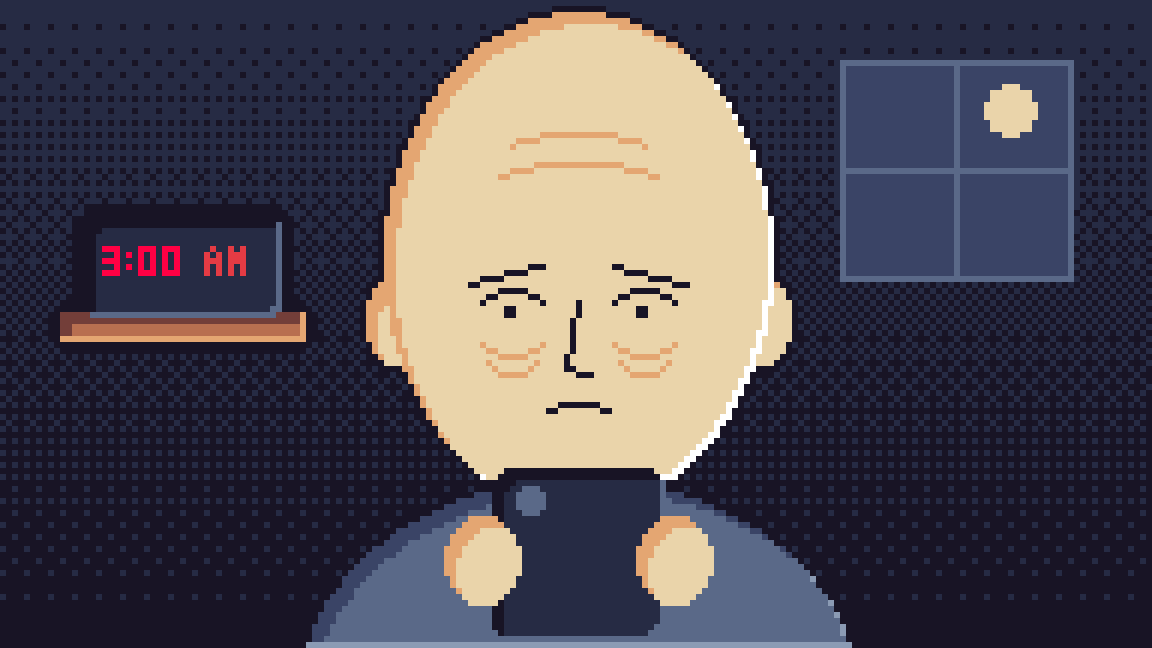
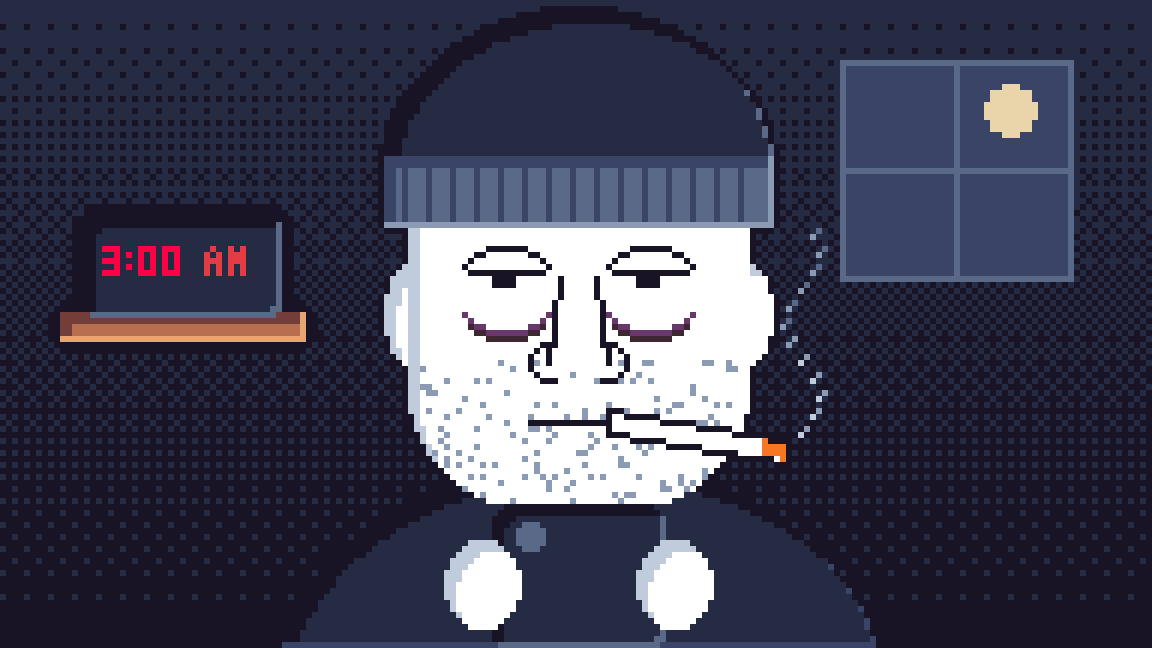
Pixel art: Placebo's spoon in dark steel against the sugar, its handle running out of the picture; Keyboard Warrior with a redditor's face (bald dome, glasses, neckbeard, smug grin), arms in the belly's tone, rounded at the shoulders; Doomscrolling's guy the doomer Wojak (beanie, eye bags, stubble, 

diff --git a/Tools/pixel_art.py b/Tools/pixel_art.py
@@ -938,29 +938,48 @@ def doomscrolling():
     pixel_text(clock, 34, 41, "AM", C["red"])
     img.alpha_composite(outline(clock))
     d = ImageDraw.Draw(img)
-    # Bojak: the bald wojak, a huge dome of a head with the face small at the bottom of it, lit blue by the phone
-    shape(img, lambda dr, v: dr.ellipse([50, 80, 142, 150], fill=v), C["slate"], C["navy"], C["grey"])  # Hunched, in a grey tee
-    for ex in (65, 127):  # Ears, low on the head
-        shape(img, lambda dr, v: dr.ellipse([ex - 4, 46, ex + 4, 60], fill=v), C["sand"], C["tan"])
-    shape(img, lambda dr, v: dr.ellipse([64, 2, 128, 84], fill=v), C["sand"], C["tan"], C["white"])
-    for y, (x0, x1) in ((22, (84, 108)), (27, (82, 110))):  # Forehead creases
-        d.arc([x0, y, x1, y + 6], 200, 340, fill=C["tan"] + (255,))
-    d.line([(78, 47), (90, 44)], fill=C["ink"] + (255,))  # Brows, sad
-    d.line([(102, 44), (114, 47)], fill=C["ink"] + (255,))
-    for ex in (85, 107):
-        d.arc([ex - 6, 48, ex + 6, 56], 200, 340, fill=C["ink"] + (255,))  # Heavy lids
-        d.rectangle([ex - 1, 51, ex, 52], fill=C["ink"] + (255,))
-        d.arc([ex - 6, 51, ex + 6, 59], 20, 160, fill=C["tan"] + (255,))  # Bags under them
-        d.arc([ex - 5, 54, ex + 5, 62], 30, 150, fill=C["tan"] + (255,))
-    d.line([(96, 50), (94, 61), (98, 62)], fill=C["ink"] + (255,))  # The nose
-    d.arc([90, 67, 102, 73], 200, 340, fill=C["ink"] + (255,))  # A small frown
-    d.arc([88, 73, 104, 81], 30, 150, fill=C["tan"] + (255,))  # The chin
+    # The doomer Wojak: black beanie, black hoodie, pale face, purple bags under tired eyes, stubble, a cigarette
+    shape(img, lambda dr, v: dr.ellipse([46, 78, 146, 150], fill=v), C["night"], C["ink"], C["navy"])  # The hoodie
+    d.line([(84, 84), (82, 100)], fill=C["grey"] + (255,))  # Its drawstrings
+    d.line([(108, 84), (110, 100)], fill=C["grey"] + (255,))
+    shape(img, lambda dr, v: dr.polygon([(80, 76), (112, 76), (106, 88), (86, 88)], fill=v), C["slate"], C["navy"])  # The tee under it
+    for ex in (68, 124):  # Ears
+        shape(img, lambda dr, v: dr.ellipse([ex - 4, 44, ex + 4, 60], fill=v), C["white"], C["silver"])
+    face = shape(img, lambda dr, v: dr.rounded_rectangle([68, 18, 124, 84], 20, fill=v), C["white"], C["silver"])
+    shape(img, lambda dr, v: dr.chord([64, 2, 128, 54], 180, 360, fill=v), C["night"], C["ink"], C["slate"])  # The beanie
+    shape(img, lambda dr, v: dr.rectangle([64, 26, 128, 37], fill=v), C["slate"], C["navy"], C["grey"])
+    for x in range(67, 127, 4):
+        d.line([x, 27, x, 36], fill=C["navy"] + (255,))
+    rnd = random.Random(67)
+    fm = face.load()
+    for _ in range(170):  # Stubble on the jaw and the lip
+        x, y = rnd.randint(70, 122), rnd.randint(60, 83)
+        if fm[x, y] and not (86 <= x <= 106 and 64 <= y <= 66):
+            dot(img, x, y, C["grey"])
+    for ex in (84, 108):
+        d.arc([ex - 8, 41, ex + 8, 53], 200, 340, fill=C["ink"] + (255,))  # Heavy, half-shut lids
+        d.line([ex - 6, 45, ex + 6, 45], fill=C["ink"] + (255,))
+        d.rectangle([ex - 2, 46, ex + 1, 47], fill=C["ink"] + (255,))
+        d.arc([ex - 8, 45, ex + 8, 55], 20, 160, fill=C["purple"] + (255,))  # The bags
+        d.arc([ex - 7, 47, ex + 7, 56], 30, 150, fill=C["plum"] + (255,))
+    d.line([(93, 46), (91, 60)], fill=C["ink"] + (255,))  # The long Wojak nose
+    d.line([(99, 46), (101, 60)], fill=C["ink"] + (255,))
+    d.arc([88, 57, 96, 63], 90, 270, fill=C["ink"] + (255,))
+    d.arc([96, 57, 104, 63], 270, 90, fill=C["ink"] + (255,))
+    d.line([88, 70, 104, 70], fill=C["ink"] + (255,))  # A flat mouth
     # The phone, its black back to us, held in both hands
-    shape(img, lambda dr, v: dr.rounded_rectangle([82, 78, 110, 106], 3, fill=v), C["night"], C["ink"], C["slate"])
-    d.ellipse([86, 81, 90, 85], fill=C["slate"] + (255,))
+    shape(img, lambda dr, v: dr.rounded_rectangle([82, 84, 110, 108], 3, fill=v), C["night"], C["ink"], C["slate"])
+    d.ellipse([86, 87, 90, 91], fill=C["slate"] + (255,))
     for hx in (80, 112):
-        shape(img, lambda dr, v: dr.ellipse([hx - 6, 86, hx + 6, 100], fill=v), C["sand"], C["tan"])
-    return outline(img)
+        shape(img, lambda dr, v: dr.ellipse([hx - 6, 90, hx + 6, 104], fill=v), C["white"], C["silver"])
+    img = outline(img)
+    d = ImageDraw.Draw(img)
+    d.polygon([(101, 68), (131, 73), (131, 77), (101, 72)], fill=C["white"] + (255,), outline=C["ink"] + (255,))  # The cigarette
+    d.polygon([(127, 73), (130, 74), (130, 76), (127, 75)], fill=C["orange"] + (255,))
+    for k in range(12):
+        dot(img, 133 + round(math.sin(k * 0.8) * 3), 72 - k * 3, C["silver"] if k < 5 else C["grey"])
+        dot(img, 134 + round(math.sin(k * 0.8) * 3), 71 - k * 3, C["grey"] if k < 6 else C["slate"])
+    return img
 
 
 def sherman_tank():
@@ -1335,13 +1354,13 @@ def man(img, x, y, scale, skin, shirt, hair=None, face="neutral", tie=None, jack
 def placebo():
     img = layer()
     d = ImageDraw.Draw(img)
-    # A spoonful of sugar and nothing else: the handle rising off to the top right, the bowl's tip to the left, heaped high
-    shape(img, lambda dr, v: dr.polygon([(128, 66), (180, 4), (188, 2), (190, 8), (138, 72)], fill=v), C["silver"], C["grey"], C["white"])
-    d.line([(134, 64), (184, 5)], fill=C["white"] + (255,))
+    # A spoonful of sugar and nothing else: dark steel against the white sugar, the handle running off past the top right
+    shape(img, lambda dr, v: dr.polygon([(128, 66), (196, -12), (204, -4), (138, 72)], fill=v), C["grey"], C["slate"], C["silver"])
+    d.line([(134, 64), (198, -8)], fill=C["silver"] + (255,))
     cx, cy, rx, ry = 84, 74, 58, 18
     bowl = [(cx + rx * math.cos(a), cy + ry * math.sin(a) * (0.7 + 0.3 * math.cos(a))) for a in (k * math.pi / 40 for k in range(80))]
-    shape(img, lambda dr, v: dr.polygon(bowl, fill=v), C["silver"], C["grey"], C["white"])
-    d.line([(x, y - 1) for x, y in bowl[6:36]], fill=C["white"] + (255,))  # The light along its lip
+    shape(img, lambda dr, v: dr.polygon(bowl, fill=v), C["grey"], C["slate"], C["silver"])
+    d.line([(x, y - 1) for x, y in bowl[6:36]], fill=C["silver"] + (255,))  # The light along its lip
     rnd = random.Random(43)
     top, bottom = [], []
     for x in range(cx - rx + 6, cx + rx - 3):
@@ -1350,6 +1369,7 @@ def placebo():
         top.append((x, cy - 4 - 30 * h ** 1.4 * (1 - 0.1 * f) + rnd.choice((-1, 0, 0, 1))))
         bottom.append((x, cy + 8 * h))
     sugar = shape(img, lambda dr, v: dr.polygon(top + bottom[::-1], fill=v), C["white"], C["silver"])
+    d.line(bottom, fill=C["slate"] + (255,))  # Where the sugar meets the steel
     sm = sugar.load()
     for _ in range(320):  # Grains, thicker on the shaded side
         x, y = rnd.randint(30, 140), rnd.randint(36, 84)
@@ -1416,7 +1436,7 @@ def golden_dome():
             d.ellipse([ex - r, ey - r, ex + r, ey + r], fill=col + (255,))
     d.line([10, 4, 18, 14], fill=C["silver"] + (255,), width=2)  # One more on its way
     d.polygon([(17, 14), (20, 13), (21, 18)], fill=C["red"] + (255,))
-    # Netanyahu in front of it, pleased with himself: silver hair swept back, dark suit, red tie, the flag pin
+    # Netanyahu in front of it, pleased with himself: silver hair swept back, dark suit, red tie
     shape(img, lambda dr, v: dr.polygon([(122, H), (126, 80), (138, 70), (174, 70), (186, 80), (190, H)], fill=v), C["night"], C["ink"], C["navy"])
     d.rectangle([150, 58, 162, 72], fill=C["skin_dark"] + (255,))  # The neck
     d.polygon([(146, 70), (166, 70), (156, 94)], fill=C["white"] + (255,))
@@ -1424,10 +1444,6 @@ def golden_dome():
     d.polygon([(154, 76), (158, 76), (160, 90), (156, 94), (152, 90)], fill=C["red"] + (255,))
     d.line([(146, 70), (156, 94)], fill=C["navy"] + (255,))
     d.line([(166, 70), (156, 94)], fill=C["navy"] + (255,))
-    d.rectangle([169, 80, 174, 84], fill=C["white"] + (255,))
-    d.line([169, 80, 174, 80], fill=C["blue"] + (255,))
-    d.line([169, 84, 174, 84], fill=C["blue"] + (255,))
-    dot(img, 171, 82, C["blue"])
     for ex in (138, 174):  # Ears
         shape(img, lambda dr, v: dr.ellipse([ex - 4, 32, ex + 4, 48], fill=v), C["skin"], C["skin_dark"])
     shape(img, lambda dr, v: dr.ellipse([140, 14, 172, 64], fill=v), C["skin"], C["skin_dark"])
@@ -1516,14 +1532,17 @@ def inflatable_tank():
 def keyboard_warrior():
     img = layer()
     d = ImageDraw.Draw(img)
-    # Rambo gone soft: long black hair, the red headband, shirtless, a belly, a bandolier, camo trousers
-    hair = [(74, 18), (106, 18), (114, 54), (104, 46), (98, 50), (82, 50), (76, 46), (66, 54)]
+    # Rambo gone soft, with a redditor's face: balding, long hair at the back, the red headband, glasses, a neckbeard,
+    # a smug toothy grin; shirtless, a belly, a bandolier, camo trousers
+    hair = [(74, 22), (106, 22), (114, 56), (104, 48), (98, 52), (82, 52), (76, 48), (66, 56)]
     shape(img, lambda dr, v: dr.polygon(hair, fill=v), C["night"], C["ink"], C["slate"])
     shape(img, lambda dr, v: dr.rectangle([56, 98, 124, H], fill=v), C["dark_green"], C["forest"], C["green"])
     rnd = random.Random(61)
     for _ in range(10):  # Camo blotches
         x, y = rnd.randint(58, 120), rnd.randint(100, H)
         d.ellipse([x - 3, y - 2, x + 3, y + 2], fill=rnd.choice((C["forest"], C["brown"])) + (255,))
+    for x0 in (50, 110):  # Fat upper arms, hanging at his sides
+        shape(img, lambda dr, v: dr.ellipse([x0, 46, x0 + 20, 80], fill=v), C["skin"], C["skin_dark"])
     shape(img, lambda dr, v: dr.ellipse([56, 40, 124, 82], fill=v), C["skin"], C["skin_dark"])  # Chest
     shape(img, lambda dr, v: dr.ellipse([54, 56, 126, 110], fill=v), C["skin"], C["skin_dark"])  # The belly
     for x0 in (66, 92):
@@ -1534,28 +1553,40 @@ def keyboard_warrior():
         x, y = 66 + k * 5.3, 48 + k * 6
         d.rectangle([x - 1, y - 2, x + 1, y + 1], fill=C["amber"] + (255,))
         dot(img, x, y - 3, C["silver"])
-    # The head: double chin, scowl, gritted teeth, sweating
-    shape(img, lambda dr, v: dr.ellipse([76, 14, 104, 48], fill=v), C["skin"], C["skin_dark"], C["white"])
-    d.arc([80, 38, 100, 50], 20, 160, fill=C["skin_dark"] + (255,))
-    d.chord([74, 10, 106, 30], 180, 360, fill=C["night"] + (255,))
-    shape(img, lambda dr, v: dr.rectangle([75, 21, 105, 25], fill=v), C["red"], C["wine"])  # The headband, its tails flying
-    shape(img, lambda dr, v: dr.polygon([(76, 22), (58, 18), (56, 24), (68, 26), (76, 25)], fill=v), C["red"], C["wine"])
-    shape(img, lambda dr, v: dr.polygon([(76, 24), (60, 30), (63, 33), (76, 26)], fill=v), C["red"], C["wine"])
-    d.line([(82, 28), (88, 30)], fill=C["ink"] + (255,))
-    d.line([(92, 30), (98, 28)], fill=C["ink"] + (255,))
-    for ex in (85, 94):
-        d.rectangle([ex, 31, ex + 1, 32], fill=C["ink"] + (255,))
-    d.line([(90, 32), (89, 37), (91, 38)], fill=C["skin_dark"] + (255,))
-    d.rectangle([86, 41, 94, 43], fill=C["white"] + (255,), outline=C["ink"] + (255,))
-    for x, y in ((80, 40), (83, 44), (97, 44), (100, 40), (88, 46), (92, 46)):
-        dot(img, x, y, C["skin_dark"])
-    shape(img, lambda dr, v: dr.ellipse([101, 28, 103, 32], fill=v), C["sky"], C["blue"])
+    # The redditor head: a tall bald dome, glasses, brow creases, the neckbeard
+    head = shape(img, lambda dr, v: (dr.ellipse([76, 0, 104, 34], fill=v), dr.ellipse([74, 18, 106, 50], fill=v)), C["skin"], C["skin_dark"])
+    hm = head.load()
+    for _ in range(140):  # The neckbeard: stubble round the jaw and under the chin
+        x, y = rnd.randint(74, 106), rnd.randint(36, 50)
+        if hm[x, y] and ((x - 90) ** 2 / 100 + (y - 37) ** 2 / 16 > 1):
+            dot(img, x, y, rnd.choice((C["dark_brown"], C["ink"])))
+    shape(img, lambda dr, v: dr.rectangle([75, 14, 105, 18], fill=v), C["red"], C["wine"])  # The headband, its tails flying
+    shape(img, lambda dr, v: dr.polygon([(76, 15), (58, 11), (56, 17), (68, 19), (76, 18)], fill=v), C["red"], C["wine"])
+    shape(img, lambda dr, v: dr.polygon([(76, 17), (60, 23), (63, 26), (76, 19)], fill=v), C["red"], C["wine"])
+    d.arc([82, 20, 92, 26], 200, 340, fill=C["skin_dark"] + (255,))  # Smug creases over the brows
+    d.arc([88, 21, 98, 27], 200, 340, fill=C["skin_dark"] + (255,))
+    d.line([(80, 27), (87, 29)], fill=C["ink"] + (255,))  # Brows, down at the middle
+    d.line([(93, 29), (100, 27)], fill=C["ink"] + (255,))
+    for x0 in (79, 91):  # The glasses
+        d.rectangle([x0, 30, x0 + 9, 35], outline=C["ink"] + (255,))
+        d.line([x0 + 1, 31, x0 + 8, 31], fill=C["skin_dark"] + (255,))  # Narrowed eyes
+        d.rectangle([x0 + 4, 32, x0 + 5, 33], fill=C["ink"] + (255,))
+    d.line([88, 31, 91, 31], fill=C["ink"] + (255,))
+    d.line([(76, 31), (79, 31)], fill=C["ink"] + (255,))
+    d.line([(100, 31), (104, 31)], fill=C["ink"] + (255,))
+    d.line([(90, 35), (89, 39), (91, 39)], fill=C["skin_dark"] + (255,))
+    d.polygon([(82, 41), (98, 41), (95, 45), (85, 45)], fill=C["white"] + (255,), outline=C["ink"] + (255,))  # The grin
+    for x in (86, 89, 92, 95):
+        d.line([x, 42, x, 44], fill=C["silver"] + (255,))
+    d.line([(80, 40), (82, 41)], fill=C["ink"] + (255,))
+    d.line([(98, 41), (100, 40)], fill=C["ink"] + (255,))
     img = outline(img)
-    # Fat arms, both fists on the keyboard's end, held up and forward like a sword (their own outline, over the body)
+    # Forearms, both fists on the keyboard's end, held up and forward like a sword (their own outline, over the body)
     body, img = img, layer()
     d = ImageDraw.Draw(img)
-    shape(img, lambda dr, v: dr.line([(62, 48), (62, 64), (84, 72)], fill=v, width=10, joint="curve"), C["skin_dark"], C["brown"], C["skin"], (0, 1), 2)
-    shape(img, lambda dr, v: dr.line([(118, 48), (118, 64), (98, 70)], fill=v, width=10, joint="curve"), C["skin_dark"], C["brown"], C["skin"], (0, 1), 2)
+    for (ex, ey), (wx, wy) in (((62, 78), (84, 72)), ((118, 78), (98, 70))):  # Elbow to wrist, rounded at the elbow
+        shape(img, lambda dr, v: (dr.line([(ex, ey), (wx, wy)], fill=v, width=9), dr.ellipse([ex - 5, ey - 5, ex + 5, ey + 5], fill=v)),
+              C["skin"], C["skin_dark"])
     a = math.radians(55)
     ux, uy, nx, ny = math.cos(a), -math.sin(a), math.sin(a), math.cos(a)
     p0x, p0y, L, w = 90 - ux * 4, 72 - uy * 4, 78, 7

diff --git a/Tools/art_briefs.py b/Tools/art_briefs.py
@@ -33,9 +33,12 @@ USER_NOTES = {
     "Legacy Code": ["2026-10-14 (pixel art): a scroll with HERE BE DRAGONS in ASCII art (the user's reference: the dragon by snd).",
                     "2026-10-14: no cobweb (it read as a wifi signal) and no duct tape on the computer."],
     "Golden Dome": ["2026-10-14 (pixel art): redo it; Netanyahu as the man standing there (the user's reference photo: silver hair "
-                    "swept back, dark suit, white shirt, red tie, an Israeli flag pin, a smirk)."],
+                    "swept back, dark suit, white shirt, red tie, an Israeli flag pin, a smirk).", "2026-10-14: no flag pin."],
     "Surveillance Giraffe": ["2026-10-14 (pixel art): keep its shape; no blobs sticking out of it; no camera (the white thing) on its head."],
-    "Keyboard Warrior": ["2026-10-14 (pixel art): like Rambo but fat, holding the keyboard as if it were a sword."],
+    "Keyboard Warrior": ["2026-10-14 (pixel art): like Rambo but fat, holding the keyboard as if it were a sword.",
+                         "2026-10-14: the arms in the belly's lighter skin tone, smooth where they meet the shoulders; the "
+                         "face the typical redditor meme face (the user's references: a tall bald dome, glasses, brow "
+                         "creases, a smug toothy grin, a neckbeard), in our own colors, not the reference's."],
     "Black Knight": ["2026-10-14 (pixel art): no speech bubble; like the older picture, with King Arthur and Patsy there; the "
                      "forest has no water."],
     "Particle Accelerator": ["2026-10-14 (pixel art): after the user's photo of the LHC tunnel: the blue magnet pipe running off "
@@ -60,7 +63,8 @@ USER_NOTES = {
                 "cat's ears aligned with its head.", "2026-10-14: no round fin blob on top of the fish."],
     "Placebo": ["Put a spoon of sugar.",
                 "2026-10-14 (pixel art): only the spoon holding sugar, like the user's photo (a heaped spoonful, the handle "
-                "rising to the right); keep the pink background."],
+                "rising to the right); keep the pink background.",
+                "2026-10-14: more contrast between the spoon and the sugar; the end of the handle out of sight at this angle."],
     "Business Expense": ["A guy who looks like a CEO, in a full suit, going to jail."],
     "We Are Not The Same": ["The Spider-Man meme, pointing at each other."],
     "Meta Group Chat": ["Redo it with a WhatsApp-like feel."],
@@ -70,7 +74,9 @@ USER_NOTES = {
     "Genesis": ["Like the reference picture the user gave."],
     "Doomscrolling": ["A guy like the wojak meme, but on a phone instead of a computer.",
                       "2026-10-14 (pixel art): a clock showing 3:00 AM behind him.",
-                      "2026-10-14: no cards flying about; the guy like Bojak from the memes (the bald wojak)."],
+                      "2026-10-14: no cards flying about; the guy like Bojak from the memes (the bald wojak).",
+                      "2026-10-14: the guy like Wojak: the doomer (the user's reference: a black beanie, purple bags under "
+                      "tired eyes, stubble, a cigarette with its smoke, a black hoodie)."],
     "The Holy Grail": ["Remove the pin."],
     "The Lost Ark": ["Make the guy look more like Indiana Jones."],
     "Omen Reading": ["The reader more centered at the table, his body showing."],
